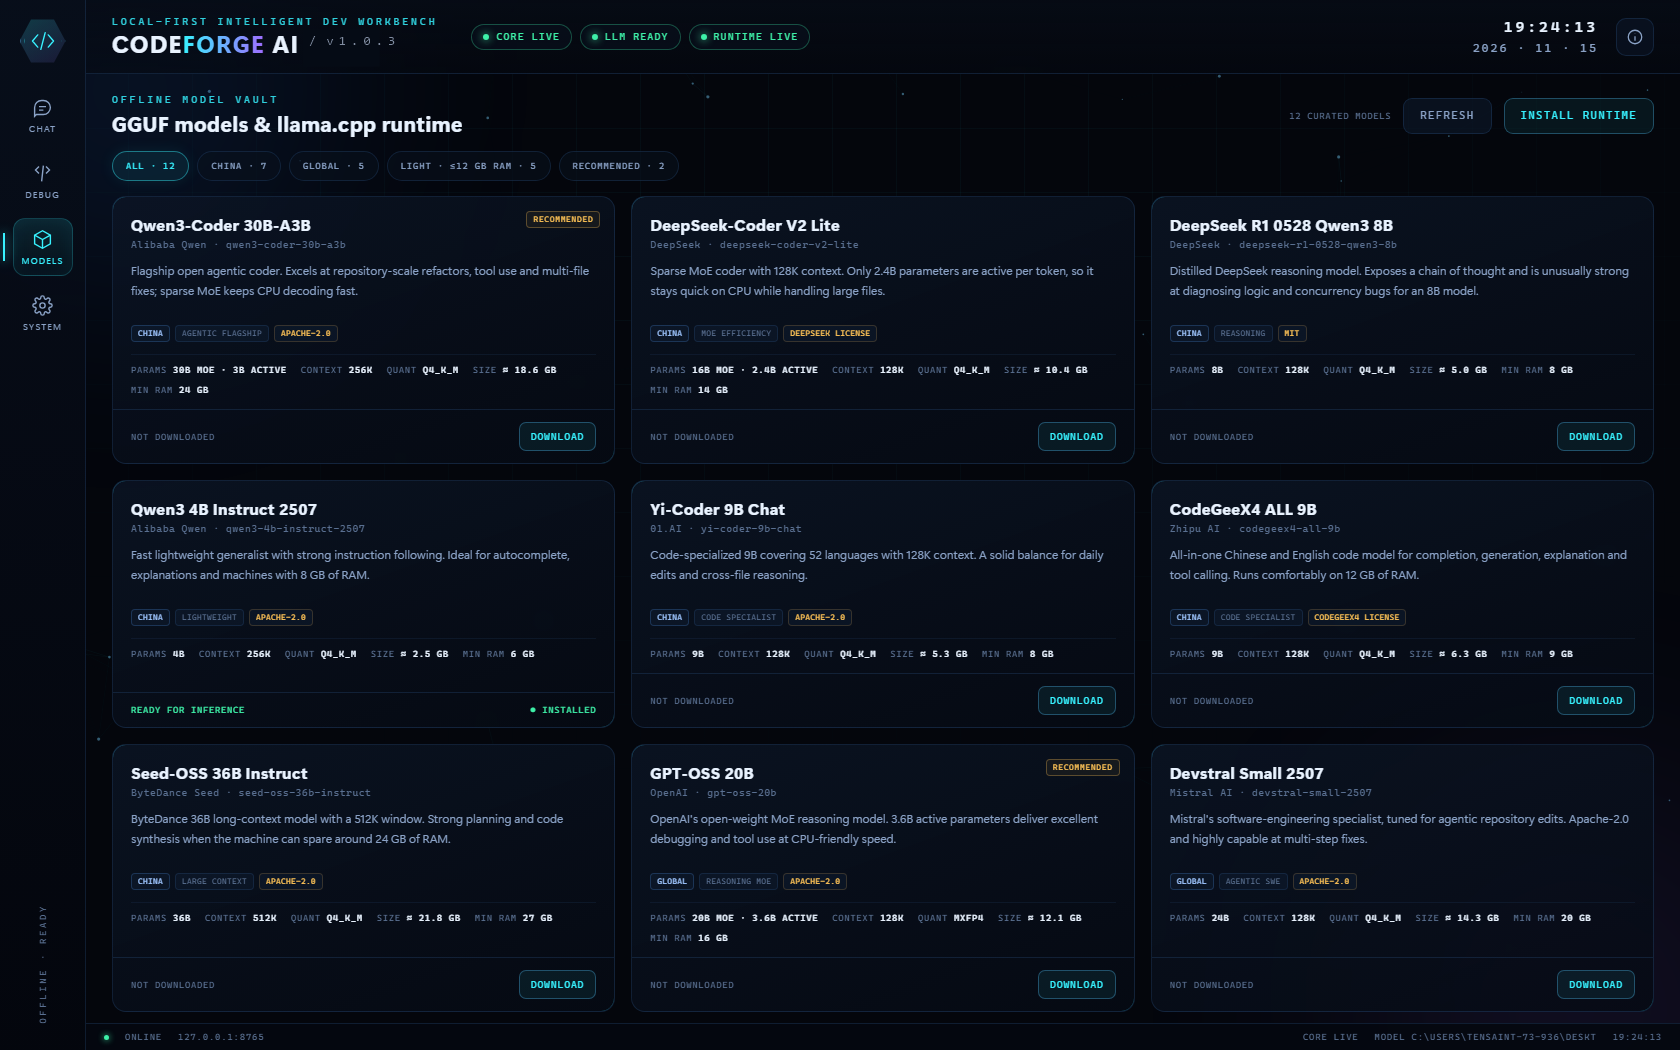
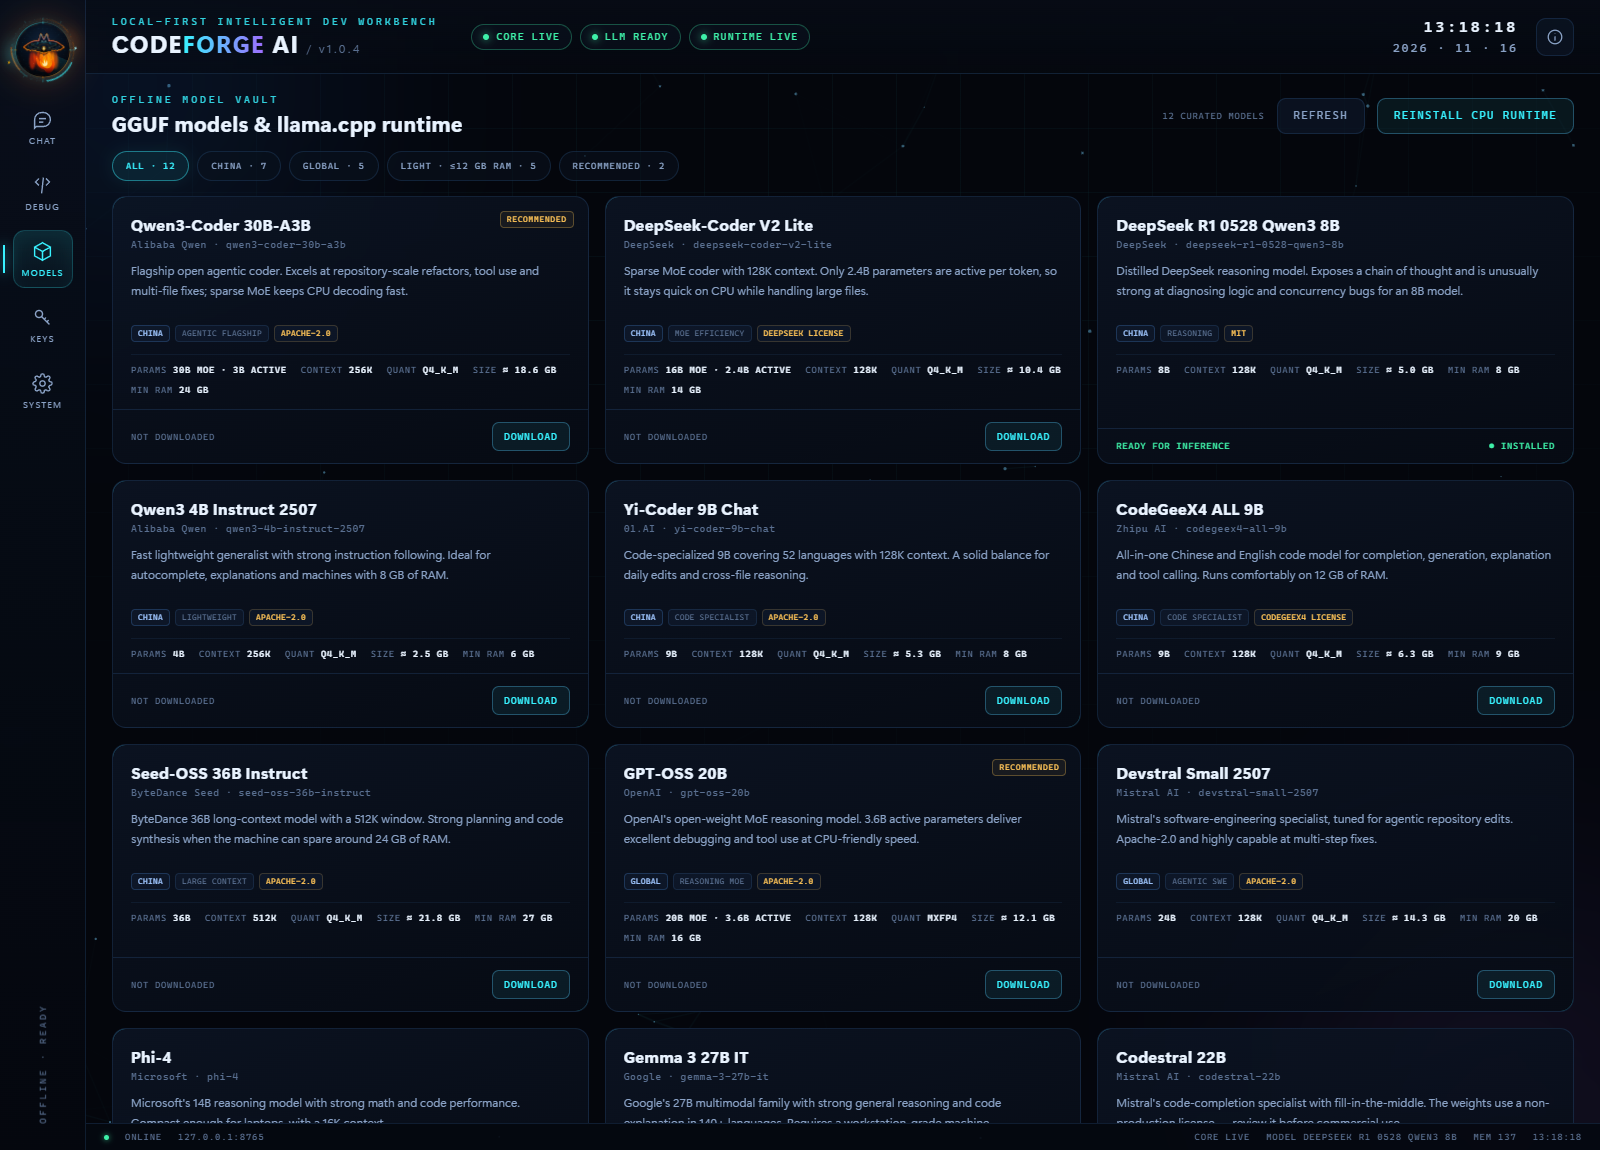
Refresh 1.0.4 docs, screenshots, and native helper version

diff --git a/native-c/sha256.c b/native-c/sha256.c
@@ -237,5 +237,5 @@ int cf_sha256_file(const char *utf8_path, char out_hex[65]) {
 }
 
 const char *cf_sha256_version(void) {
-    return "1.0.3";
+    return "1.0.4";
 }

diff --git a/README.md b/README.md
@@ -2,7 +2,7 @@
 
 # CodeForge AI
 
-**A local-first intelligent programming workbench — dual-brain reasoning, agentic debugging, and memory that survives disconnection.**
+**A local-first, action-first intelligent programming workbench — executable code first, deeper reasoning only when needed, and memory that survives disconnection.**
 
 C/C++ core · Java server · Python automation · Windows · Linux · macOS · Android · iOS
 
@@ -41,12 +41,13 @@ Both mirrors carry the same eight release assets: the six archives above, `SHA25
 
 ## What it is
 
-CodeForge AI is a self-contained programming assistant that runs on your own machine. It chats about code, executes programs in isolated workspaces, and **automatically repairs failing code** by combining compiler diagnostics with a large language model. Models are downloaded as GGUF files and served locally by `llama.cpp`.
+CodeForge AI is a self-contained, action-first programming assistant that runs on your own machine. Short calculator, command and code requests return runnable code instead of a long deliberation; deeper reasoning is reserved for tasks that need it. It executes programs in isolated workspaces and **automatically repairs failing code** by combining compiler diagnostics with a large language model. Models are downloaded as GGUF files and served locally by `llama.cpp`.
 
 Local inference stays on the machine. When you configure an **online brain** (any DeepSeek-compatible OpenAI API) and the device is connected, the router sends that request to the online model for maximum capability; if the network or the API fails, the request automatically falls back to the local model. Everything learned online — answers, web snippets and research findings — is written into a persistent local memory store, so the offline brain keeps the knowledge after the connection drops.
 
 **Core capabilities**
 
+- **Action-first replies** — simple calculator, command and code requests return executable code in seconds instead of disappearing into a long monologue. The managed runtime caps reasoning with `--reasoning off --reasoning-budget 256` and disables the chat template's thinking mode; the model still reasons when the task genuinely needs it. A capped-reasoning calculator request returned code in 4.6 s.
 - **Dual-brain routing** — online DeepSeek-class capability when configured and reachable, local offline inference otherwise, with automatic fallback and `route`/`route_error` reported on every request.
 - **Persistent memory** — append-only JSONL memory with CJK bigram + Latin tokenization, SHA-256 deduplication, relevance scoring, kind weights, recency decay and pruning. Chat turns, web findings, debug outcomes and distilled online lessons are recalled offline.
 - **Workspace index** — the server indexes project sources (up to 1,500 files, secret/config/build directories excluded) into `memory/project-index.jsonl`, so questions about your own repository are answered with real paths and excerpts.

diff --git a/docs/MANUAL.md b/docs/MANUAL.md
@@ -44,12 +44,13 @@ software can produce. It assumes no prior knowledge of the codebase.
 
 ## 1. What CodeForge AI is
 
-CodeForge AI is a self-contained programming workbench. Local inference,
-execution and repair all happen on the machine it is installed on. When an
-optional online brain and network access are available, the same request can
-be served by a DeepSeek-compatible API for maximum capability, and everything
-learned online is persisted locally for offline recall. It combines three
-abilities:
+CodeForge AI is a self-contained, action-first programming workbench. Local
+inference, execution and repair all happen on the machine it is installed on.
+Simple calculator, command and code requests return executable code first;
+deeper reasoning is reserved for tasks that need it. When an optional online
+brain and network access are available, the same request can be served by a
+DeepSeek-compatible API for maximum capability, and everything learned online
+is persisted locally for offline recall. It combines three abilities:
 
 1. **Conversation** — a chat interface backed by an offline large language
    model, with code-aware markdown rendering, workspace context, persistent
@@ -74,6 +75,10 @@ online brain when a key is configured.
 
 - **Local-first.** No account, no cloud key, no telemetry. The server binds to
   `127.0.0.1`; inference binds to `127.0.0.1:8080`.
+- **Action-first.** Short commands and code requests produce runnable output
+  before prose. Managed inference caps reasoning and disables the chat
+  template's thinking mode so a calculator request cannot turn into a long
+  monologue; longer deliberation remains available for genuinely complex work.
 - **Native core.** Orchestration, process supervision, HTTP and the debug loop
   are written in C++17; the hash and host-telemetry helper is C17. There is no
   interpreter in the execution path.
@@ -693,6 +698,16 @@ bubble is replaced by an `INTERRUPTED BY YOU` divider, and the new message is
 sent as a fresh turn with the previous question still in history. The request
 timeout in the browser is 900 seconds, matching the server-side `/api/chat`
 timeout.
+
+**Action-first behavior.** Short commands, calculator requests and code
+snippets are answered with runnable code before commentary. The managed
+runtime passes `--reasoning off --reasoning-budget 256` and
+`LLAMA_ARG_CHAT_TEMPLATE_KWARGS={"enable_thinking":false}` to `llama-server`,
+so the model does not spend a long preamble on a task that needs one line of
+output. The cap is a ceiling, not a requirement: complex debugging, design and
+multi-file tasks still receive a full answer. In measured runs, a direct
+`add(a,b)` completion returned code only in 0.8 s and a capped-reasoning
+calculator request returned code in 4.6 s.
 
 ### 5.3 Live reasoning trace and remaining time
 

diff --git a/CHANGELOG.md b/CHANGELOG.md
@@ -86,7 +86,10 @@ All notable changes to CodeForge AI are documented here. Versions follow
   scratch file can enter an archive.
 - Documentation, diagrams and console copy were refreshed to match: the
   manual, API reference, architecture notes, model guide and rendered diagrams
-  now describe CPU/CUDA selection instead of CPU-only inference.
+  now describe CPU/CUDA selection instead of CPU-only inference. Five
+  remaining v1.0.3 screenshots (debug, model library, control center and two
+  mobile views) were regenerated at 1.0.4, and the native C helper now reports
+  version 1.0.4.
 
 ## 1.0.3 — 2026-11-16
 
